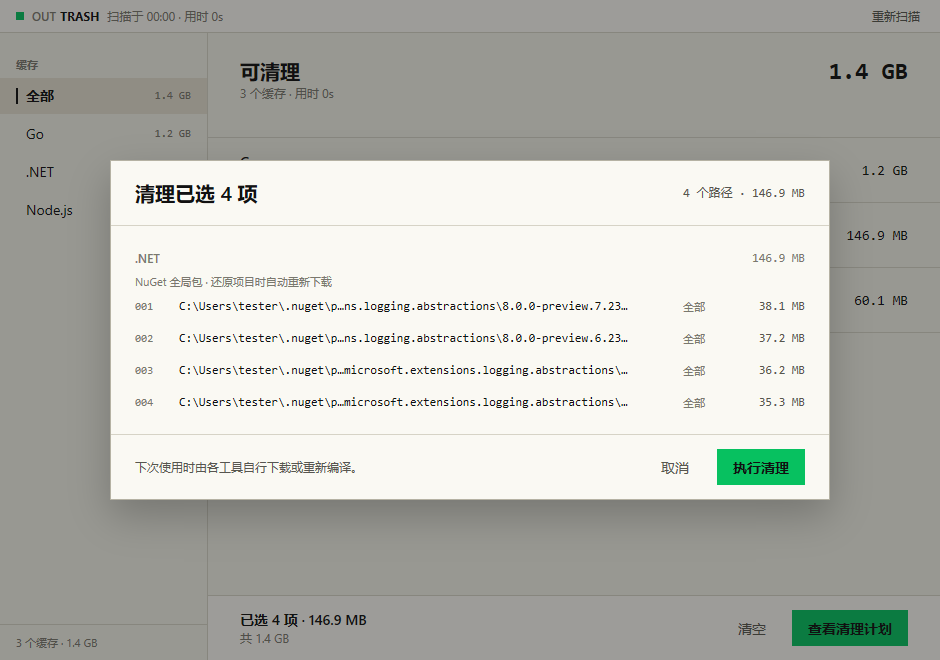
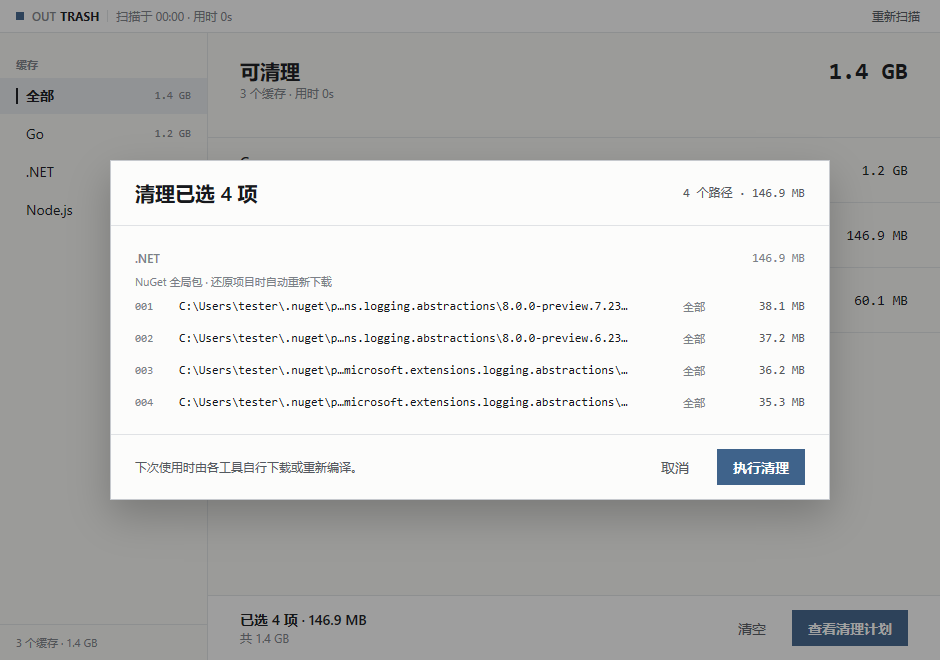
style: industrial palette, row hover, ruled title bar
Per #29: paper-white and graphite with a single low-saturation blue-gray
accent instead of the saturated green, so the accent reads as a native
control rather than a web CTA. The title bar's wordmark now sits against
a hairline rule, matching the ledger's structure.

Rows light up under the pointer (rail, overview, item, package, leaf),
which needed the hover state read while building the row — the same call
is what asks mygo for a repaint when the pointer crosses it.

diff --git a/internal/core/theme.go b/internal/core/theme.go
@@ -1,9 +1,9 @@
 // theme.go holds outrash's colors and type scale.
 //
-// The look is a ledger: warm paper, ink, hairlines, one saturated accent for
-// the single action that matters. No radius, no gradients, no shadows except
-// the plan sheet, because the product's honesty comes from looking like a
-// printed manifest rather than a dashboard.
+// The look is an industrial ledger: paper, graphite ink, hairlines, and one
+// low-saturation blue-gray for the single action that matters. No radius, no
+// gradients, no shadows except the plan sheet, because the product's honesty
+// comes from looking like a printed manifest rather than a dashboard.
 package core
 
 import "github.com/egoist/mygo/ui"
@@ -28,33 +28,33 @@ type Palette struct {
 
 var (
 	Light = Palette{
-		Canvas:     ui.Hex("#F2F1E8"),
-		Raised:     ui.Hex("#FAF9F3"),
-		Hover:      ui.Hex("#EAE8DC"),
-		Selected:   ui.Hex("#E4E0D0"),
-		Ink:        ui.Hex("#111111"),
-		Ink2:       ui.Hex("#57564F"),
-		Ink3:       ui.Hex("#7A786E"),
-		Rule:       ui.Hex("#D6D3C6"),
-		RuleStrong: ui.Hex("#B5B2A3"),
-		Accent:     ui.Hex("#07C160"),
-		OnAccent:   ui.Hex("#111111"),
-		Danger:     ui.Hex("#B42318"),
+		Canvas:     ui.Hex("#F6F6F4"),
+		Raised:     ui.Hex("#FCFCFB"),
+		Hover:      ui.Hex("#EFEFEC"),
+		Selected:   ui.Hex("#E6E9EC"),
+		Ink:        ui.Hex("#16181C"),
+		Ink2:       ui.Hex("#54595F"),
+		Ink3:       ui.Hex("#7B8087"),
+		Rule:       ui.Hex("#E0E2E5"),
+		RuleStrong: ui.Hex("#C6C9CE"),
+		Accent:     ui.Hex("#3F638B"),
+		OnAccent:   ui.Hex("#FFFFFF"),
+		Danger:     ui.Hex("#A8291F"),
 		Success:    ui.Hex("#2E6B4F"),
 	}
 	DarkPalette = Palette{
-		Canvas:     ui.Hex("#121210"),
-		Raised:     ui.Hex("#1A1A17"),
-		Hover:      ui.Hex("#23231F"),
-		Selected:   ui.Hex("#2A2924"),
-		Ink:        ui.Hex("#F2F1E8"),
-		Ink2:       ui.Hex("#A7A59A"),
-		Ink3:       ui.Hex("#7C7A70"),
-		Rule:       ui.Hex("#2C2B26"),
-		RuleStrong: ui.Hex("#403E37"),
-		Accent:     ui.Hex("#07C160"),
-		OnAccent:   ui.Hex("#111111"),
-		Danger:     ui.Hex("#F97066"),
+		Canvas:     ui.Hex("#16181B"),
+		Raised:     ui.Hex("#1C1F23"),
+		Hover:      ui.Hex("#23272C"),
+		Selected:   ui.Hex("#2A3037"),
+		Ink:        ui.Hex("#F2F3F5"),
+		Ink2:       ui.Hex("#A7ACB3"),
+		Ink3:       ui.Hex("#7C828A"),
+		Rule:       ui.Hex("#2B2F34"),
+		RuleStrong: ui.Hex("#3E434A"),
+		Accent:     ui.Hex("#6E93BC"),
+		OnAccent:   ui.Hex("#0E1114"),
+		Danger:     ui.Hex("#F0746A"),
 		Success:    ui.Hex("#6BBF8A"),
 		Dark:       true,
 	}

diff --git a/ui.go b/ui.go
@@ -424,6 +424,7 @@ func (a *app) titleBar(c *ui.Context) {
 			ui.Box(c).Width(4).Shrink(0)
 			ui.Text(c, "TRASH").FontSize(12).FontWeight(700).TextColor(p.Ink)
 		})
+		ui.Box(c).Width(1).Height(12).Shrink(0).Background(p.Rule)
 		ui.Text(c, a.summary()).FontSize(12).TextColor(p.Ink3).SingleLine().Grow(1)
 		if a.phase == phaseScanning {
 			ui.Spinner(c).Width(12).Shrink(0)
@@ -495,12 +496,13 @@ func (a *app) railNote() string {
 func (a *app) railRow(c *ui.Context, id, label string, size int64) {
 	p := a.pal
 	on := a.selected == id
-	fill := ui.Transparent
+	resting := ui.Transparent
 	if on {
-		fill = p.Selected
+		resting = p.Selected
 	}
 	row := ui.Row(c).Height(36).Padding(0, 16).Gap(8).AlignItems(ui.Center).
-		Background(fill).Cursor(ui.CursorPointer).OnClick(func() { a.selected = id })
+		Cursor(ui.CursorPointer).OnClick(func() { a.selected = id })
+	row.Background(hoverFill(row, resting, p.Hover))
 	row.Children(func() {
 		ui.Box(c).Size(2, 16).Shrink(0).Background(barColor(on, p.Ink))
 		ui.Text(c, label).FontSize(14).FontWeight(weight(on)).TextColor(p.Ink).SingleLine().Grow(1)
@@ -515,6 +517,16 @@ func barColor(on bool, c ui.Color) ui.Color {
 		return c
 	}
 	return ui.Transparent
+}
+
+// hoverFill is the row's background under the pointer. It is read while the
+// row is built, which is also what asks mygo for a frame when the pointer
+// enters or leaves.
+func hoverFill(row ui.Element, resting, hover ui.Color) ui.Color {
+	if row.Hovered() {
+		return hover
+	}
+	return resting
 }
 
 func weight(on bool) int {
@@ -651,6 +663,7 @@ func (a *app) overview(c *ui.Context) {
 		size := g.size
 		row := ui.Row(c).Height(64).Padding(0, 32).Gap(16).AlignItems(ui.Center).
 			Cursor(ui.CursorPointer).OnClick(func() { a.selected = g.group.ID })
+		row.Background(hoverFill(row, ui.Transparent, p.Hover))
 		row.Children(func() {
 			ui.Column(c).Grow(1).Gap(2).Children(func() {
 				ui.Text(c, g.group.Name).FontSize(14).FontWeight(600).TextColor(p.Ink).SingleLine()

diff --git a/cards.go b/cards.go
@@ -124,6 +124,7 @@ func (a *app) itemRow(c *ui.Context, it itemState) {
 	on, total := a.checkState(picks)
 	row := ui.Row(c).Height(56).Padding(0, 32).Gap(12).AlignItems(ui.Center).
 		Cursor(ui.CursorPointer).OnClick(func() { a.open[key] = !open })
+	row.Background(hoverFill(row, ui.Transparent, p.Hover))
 	row.Children(func() {
 		a.check(c, stateOf(on, total), func() { a.toggleChecks(picks) })
 		ui.Column(c).Grow(1).Gap(2).Children(func() {
@@ -216,6 +217,7 @@ func (a *app) versioned(c *ui.Context, ent core.Entry) {
 	on, total := a.checkState(picks)
 	row := ui.Row(c).Height(32).Padding(0, 32, 0, 68).Gap(12).AlignItems(ui.Center).
 		Cursor(ui.CursorPointer).OnClick(func() { a.open[key] = !open })
+	row.Background(hoverFill(row, ui.Transparent, p.Hover))
 	row.Children(func() {
 		a.check(c, stateOf(on, total), func() { a.toggleChecks(picks) })
 		ui.Text(c, ent.Name).Font(core.Mono()).FontSize(12).TextColor(p.Ink).SingleLine().Grow(1)
@@ -240,6 +242,11 @@ func (a *app) leaf(c *ui.Context, name, path string, size int64, mod time.Time) 
 	}
 	row := ui.Row(c).Height(32).Padding(0, 32, 0, 68).Gap(12).AlignItems(ui.Center).
 		Cursor(ui.CursorPointer).OnClick(func() { a.checked[path] = !on })
+	resting := ui.Transparent
+	if on {
+		resting = p.Selected
+	}
+	row.Background(hoverFill(row, resting, p.Hover))
 	row.Children(func() {
 		a.check(c, m, nil)
 		ui.Text(c, name).Font(core.Mono()).FontSize(12).TextColor(p.Ink2).SingleLine().Grow(1)

diff --git a/main.go b/main.go
@@ -36,7 +36,7 @@ func main() {
 			Height:          660,
 			MinWidth:        860,
 			MinHeight:       560,
-			BackgroundColor: "#F2F1E8",
+			BackgroundColor: "#F6F6F4",
 			TitleBarStyle:   mygo.TitleBarHidden,
 			Content:         uiView(a),
 		})
